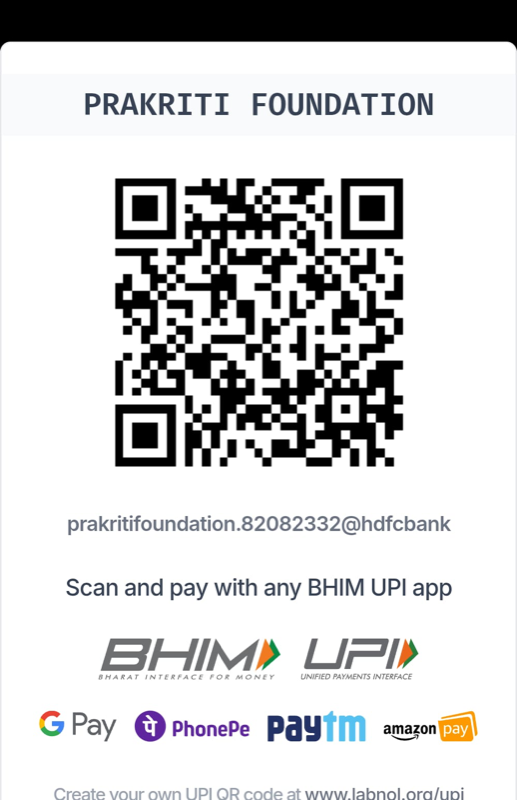
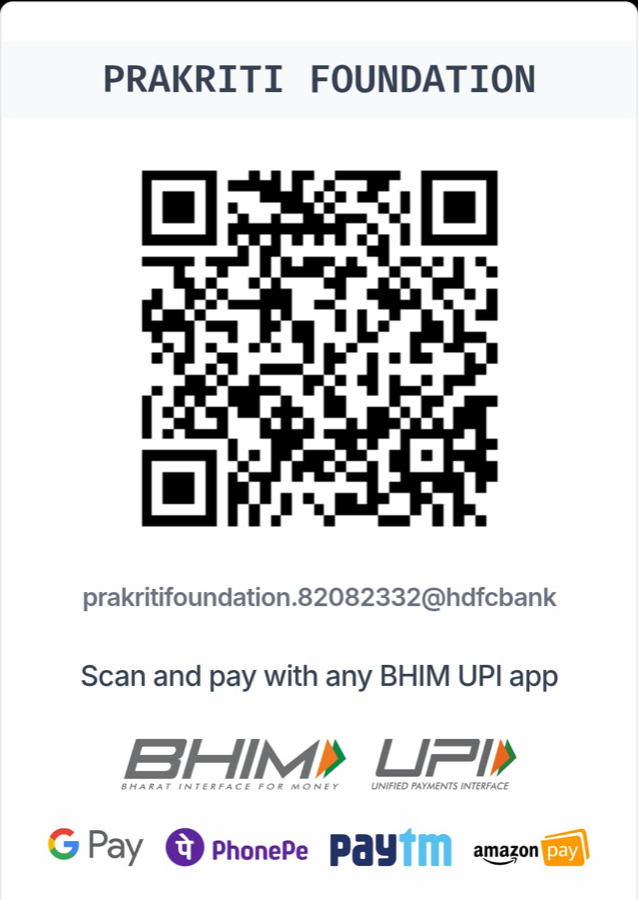
Replace the UPI QR, fix its aspect ratio, add the IFSC
New QR supplied by the foundation. Same VPA, but a clean export rather than
a screenshot - it drops the "Create your own UPI QR code at labnol.org/upi"
footer that was showing on the live site.

The image was also being distorted. It is 1000x1409, and the markup forced
it into a 176x176 square with width/height attributes; an img defaults to
object-fit: fill, so it was squashed about 29% horizontally. QR decoders
assume square modules, so non-uniform scaling can stop it scanning
altogether - which may be why a replacement was sent. Intrinsic dimensions
now match the file and the height is derived, so the aspect is preserved
and the reserved space still prevents layout shift.

IFSC HDFC0004506 added, so bank transfers work and not just cheques. Its
last five digits match the 04506 branch code on the cheque book.

diff --git a/src/components/HowToHelp.tsx b/src/components/HowToHelp.tsx
@@ -151,10 +151,10 @@ const HowToHelp = () => {
             <img
               src="/media/upi-qr.png"
               alt={`UPI QR code for donating to ${ORG.legalName}`}
-              width={176}
-              height={176}
+              width={1000}
+              height={1409}
               loading="lazy"
-              className="h-44 w-44 rounded-md bg-white p-2"
+              className="w-52 h-auto rounded-md bg-white p-2"
             />
             <div className="text-left">
               <p className="text-sm uppercase tracking-wide text-pf-sage mb-1">UPI ID</p>
@@ -181,6 +181,10 @@ const HowToHelp = () => {
               <div className="sm:flex sm:gap-3">
                 <dt className="text-pf-sage sm:w-40 shrink-0">Account number</dt>
                 <dd className="text-white font-mono tabular-nums">{ORG.bank.accountNumber}</dd>
+              </div>
+              <div className="sm:flex sm:gap-3">
+                <dt className="text-pf-sage sm:w-40 shrink-0">IFSC</dt>
+                <dd className="text-white font-mono">{ORG.bank.ifsc}</dd>
               </div>
               <div className="sm:flex sm:gap-3">
                 <dt className="text-pf-sage sm:w-40 shrink-0">Branch</dt>

diff --git a/src/lib/organization.ts b/src/lib/organization.ts
@@ -27,12 +27,11 @@ export const ORG = {
   // For cheques and bank transfers. Deliberately excludes the account
   // holder's personal mobile, personal email and home address, which appear
   // on the cheque book but are not needed to pay and should not be published.
-  // IFSC is still missing and is required for NEFT/IMPS - cheques work
-  // without it, transfers do not.
   bank: {
     accountName: 'Prakriti Foundation',
     bankName: 'HDFC Bank',
     accountNumber: '50200115061294',
+    ifsc: 'HDFC0004506',
     branch: 'Palasia Main Road, Indore - 452001',
   },
 
